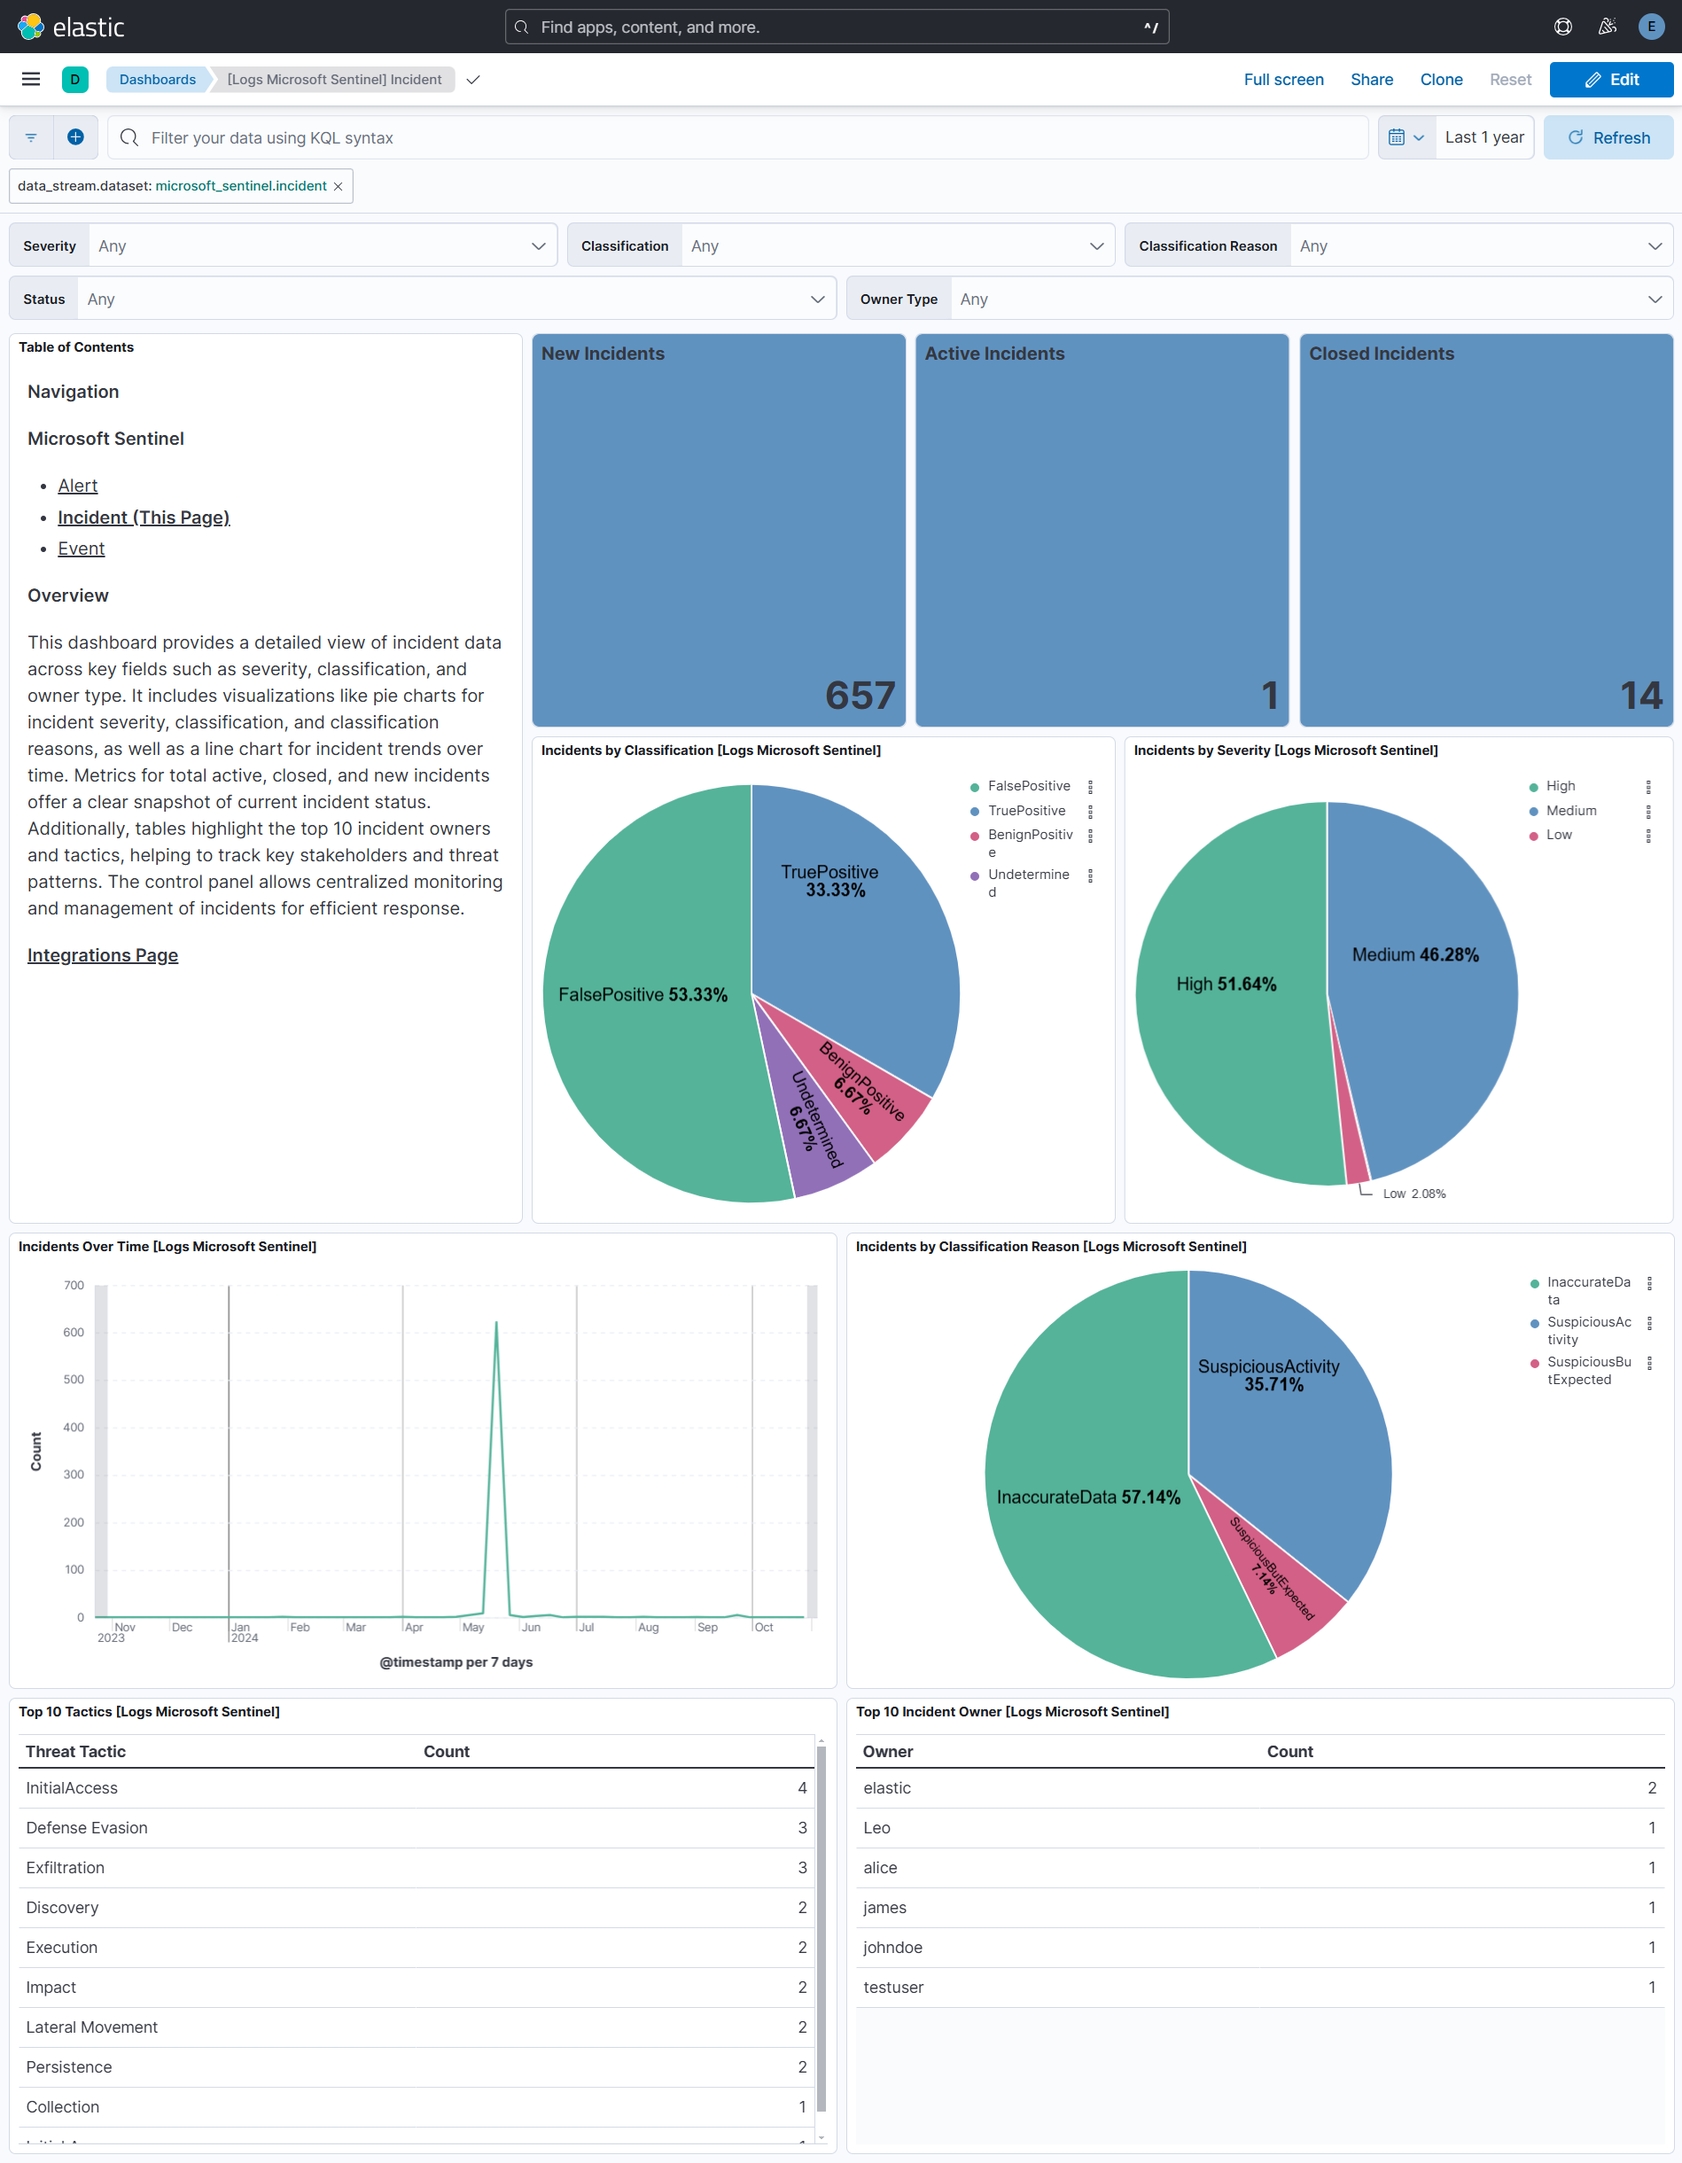
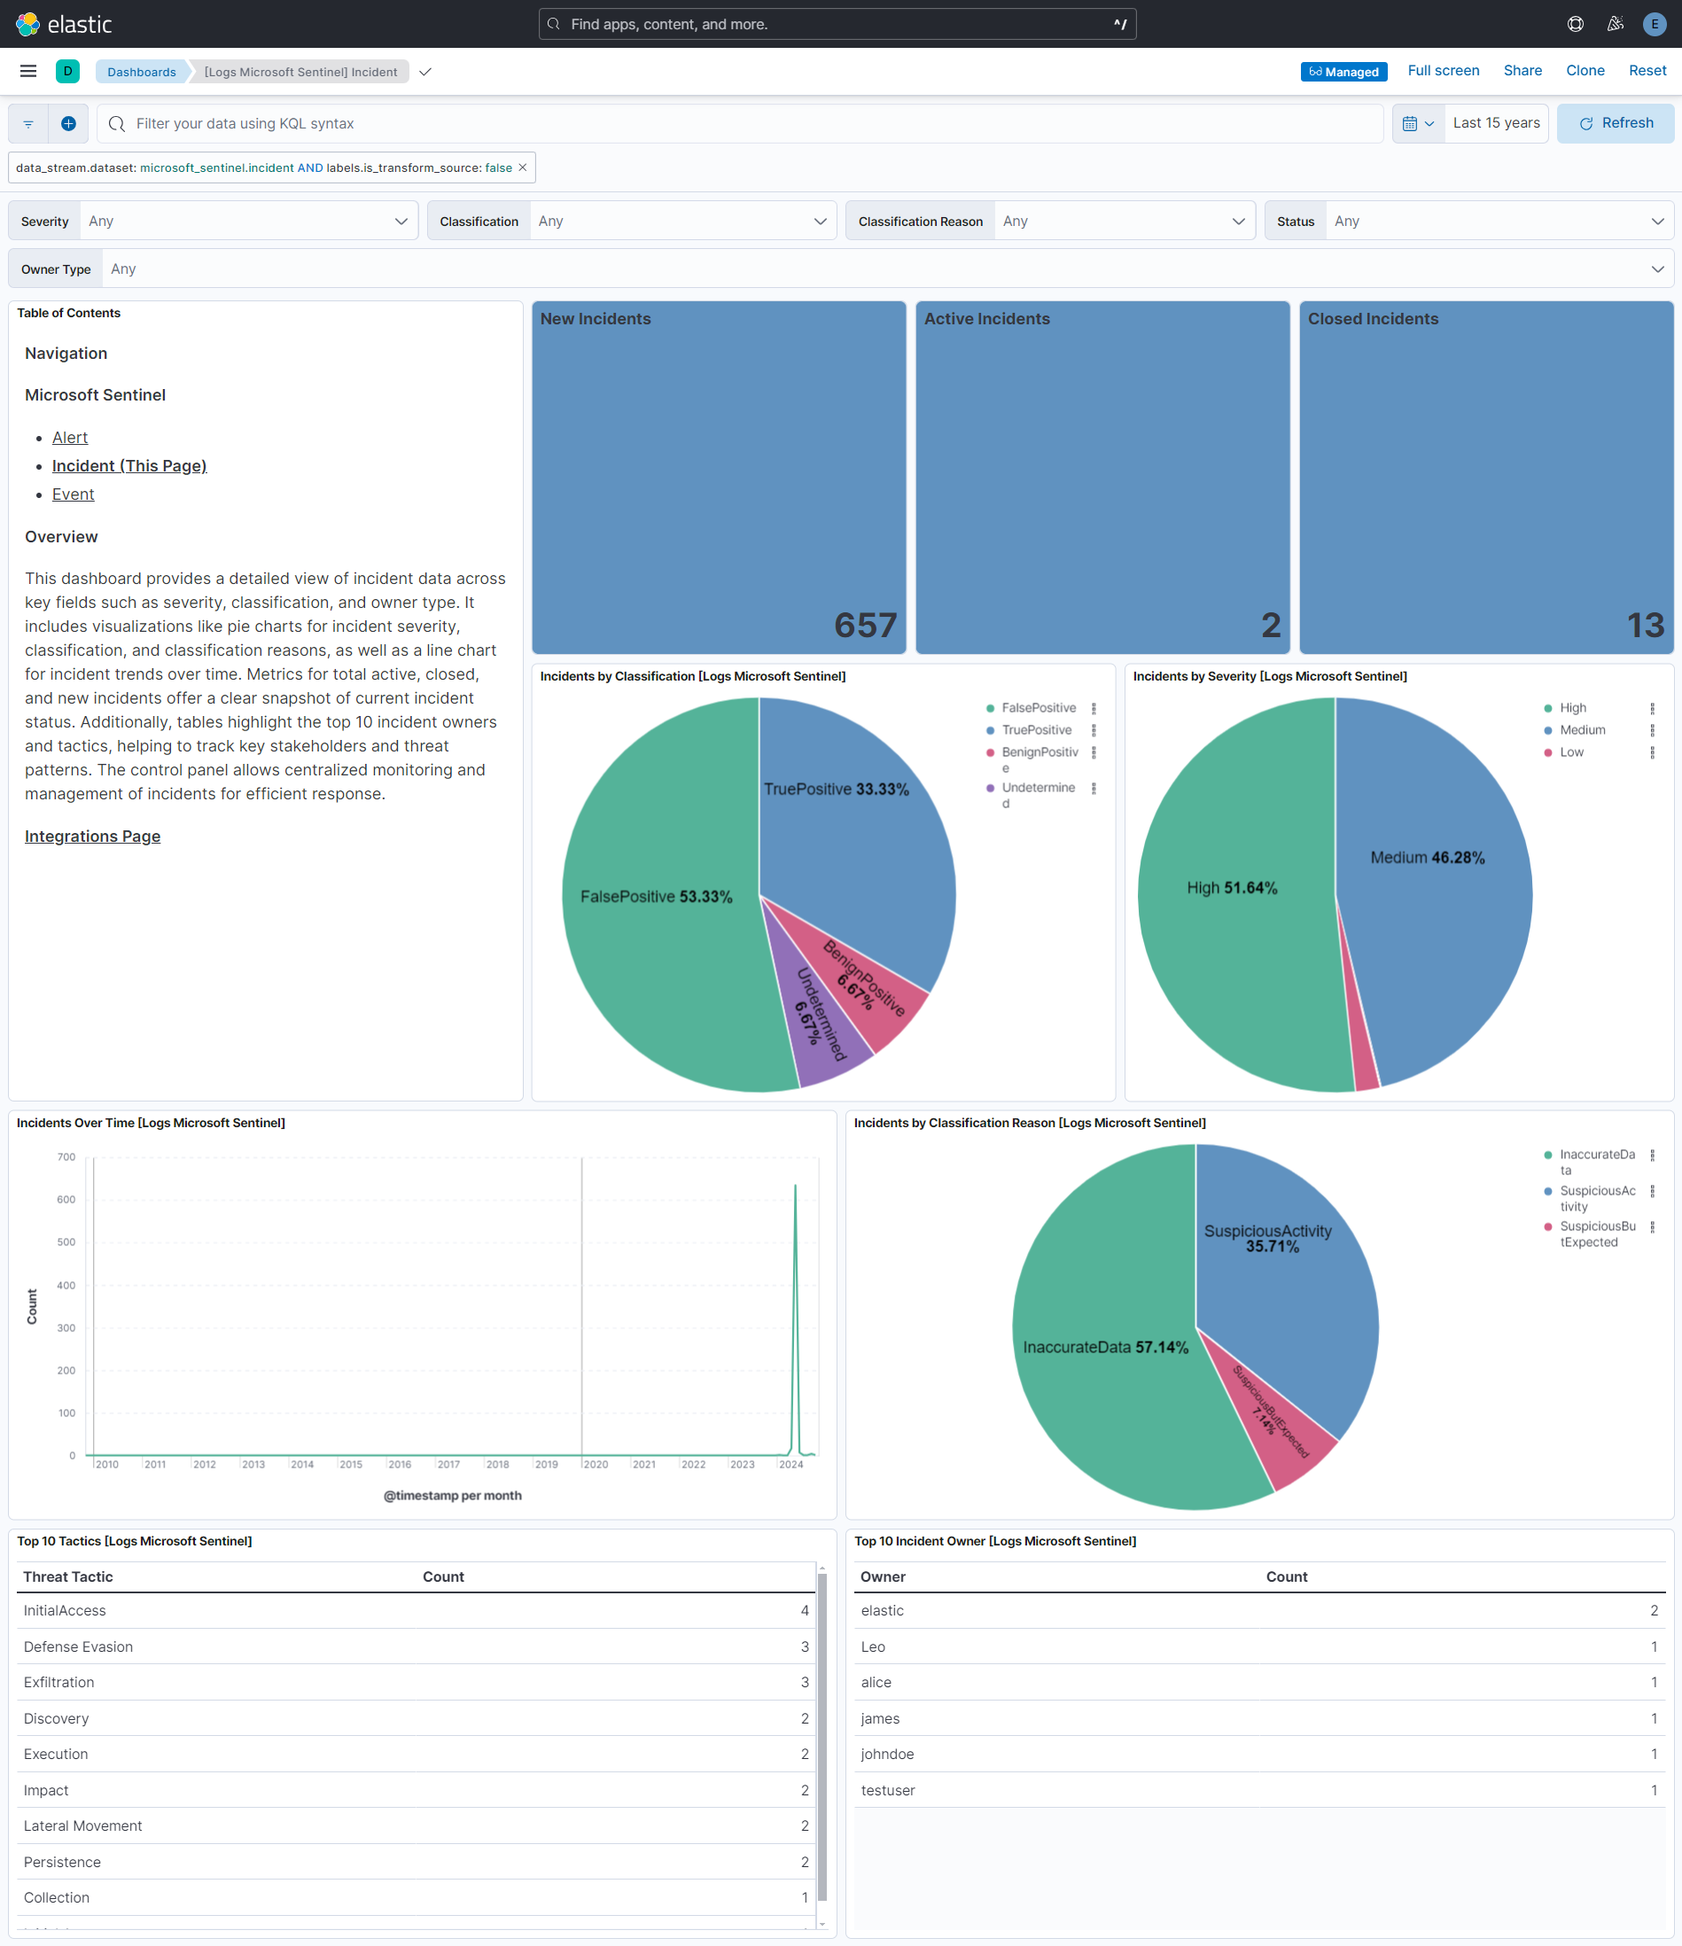
Resolved review comments and add transform to incident

diff --git a/packages/microsoft_sentinel/docs/README.md b/packages/microsoft_sentinel/docs/README.md
@@ -2,19 +2,19 @@
 
 ## Overview
 
-[Microsoft Sentinel](https://learn.microsoft.com/en-us/azure/sentinel/overview?tabs=azure-portal) is a scalable, cloud-native security information and event management (SIEM) that delivers an intelligent and comprehensive solution for SIEM and security orchestration, automation, and response (SOAR). Microsoft Sentinel provides cyberthreat detection, investigation, response, and proactive hunting, with a bird's-eye view across your enterprise.
+[Microsoft Sentinel](https://learn.microsoft.com/en-us/azure/sentinel/overview?tabs=azure-portal) is a scalable, cloud-native security information and event management (SIEM) system that delivers an intelligent and comprehensive solution for SIEM and security orchestration, automation, and response (SOAR). Microsoft Sentinel provides cyberthreat detection, investigation, response, and proactive hunting, with a bird's-eye view across your enterprise.
 
-Use the Microsoft Sentinel integration to collect and parse Alerts and Incidents from Microsoft Sentinel REST API and Events from the Microsoft Azure Event Hub, then visualise such data in Kibana.
+Use the Microsoft Sentinel integration to collect and parse Alerts and Incidents from Microsoft Sentinel REST API and Events from the Microsoft Azure Event Hub, then visualise the data in Kibana.
 
 ## Data streams
 
 The Microsoft Sentinel integration collects logs for three types of events: Alert, Event and Incident.
 
-**Alert:** [Alert](https://learn.microsoft.com/en-us/rest/api/securityinsights/incidents/list-alerts?view=rest-securityinsights-2024-03-01&tabs=HTTP) leverages to collect all alerts for an incident via API.
+**Alert:** [Alert](https://learn.microsoft.com/en-us/rest/api/securityinsights/incidents/list-alerts?view=rest-securityinsights-2024-03-01&tabs=HTTP) allows collecting all alerts for an incident via API.
 
-**Incident:** [Incident](https://learn.microsoft.com/en-us/rest/api/securityinsights/incidents/list?view=rest-securityinsights-2024-03-01&tabs=HTTP) leverages to collect all incidents via API.
+**Incident:** [Incident](https://learn.microsoft.com/en-us/rest/api/securityinsights/incidents/list?view=rest-securityinsights-2024-03-01&tabs=HTTP) allows collecting all incidents via API.
 
-**Event:** [Event](https://learn.microsoft.com/en-us/azure/sentinel/security-alert-schema) leverages to collect all alerts for an incident streamed to an Azure Event Hub.  
+**Event:** [Event](https://learn.microsoft.com/en-us/azure/sentinel/security-alert-schema) allows collecting all alerts for an incident streamed to an Azure Event Hub.  
 
 ## Requirements
 
@@ -84,22 +84,22 @@ An example event for `alert` looks as following:
 {
     "@timestamp": "2020-07-20T18:21:53.615Z",
     "agent": {
-        "ephemeral_id": "14216c6b-8b94-4ea9-8b4e-b81398b279c7",
-        "id": "191948cd-0501-4027-a905-ef118b6a7ad8",
-        "name": "elastic-agent-59529",
+        "ephemeral_id": "5d8e36a5-f551-4b9a-b54b-0c36d92d4a27",
+        "id": "c5507885-d48f-4dcb-91a9-73944f51118a",
+        "name": "elastic-agent-82640",
         "type": "filebeat",
         "version": "8.14.0"
     },
     "data_stream": {
         "dataset": "microsoft_sentinel.alert",
-        "namespace": "16128",
+        "namespace": "90867",
         "type": "logs"
     },
     "ecs": {
         "version": "8.11.0"
     },
     "elastic_agent": {
-        "id": "191948cd-0501-4027-a905-ef118b6a7ad8",
+        "id": "c5507885-d48f-4dcb-91a9-73944f51118a",
         "snapshot": false,
         "version": "8.14.0"
     },
@@ -109,7 +109,7 @@ An example event for `alert` looks as following:
         "duration": 86400000000000,
         "end": "2020-07-21T18:21:53.615Z",
         "id": "abcdef-6fde-4ab7-a093-d09f7b75c58c",
-        "ingested": "2024-10-29T09:10:28Z",
+        "ingested": "2024-11-05T06:04:45Z",
         "kind": "alert",
         "original": "{\"id\":\"/subscriptions/abcdef1-111111-4647-9105-6339bfdb4e6a/resourceGroups/myRG/providers/Microsoft.OperationalInsights/workspaces/myWorkspace/providers/Microsoft.SecurityInsights/Entities/1234567-890-890-a999999-d09f7b75c58c\",\"kind\":\"SecurityAlert\",\"name\":\"abcdef-6fde-4ab7-a093-d09f7b75c58c\",\"properties\":{\"additionalData\":{\"AlertMessageEnqueueTime\":\"2020-07-20T18:21:57.304Z\"},\"alertDisplayName\":\"myAlert\",\"alertType\":\"myAlert\",\"confidenceLevel\":\"Unknown\",\"endTimeUtc\":\"2020-07-21T18:21:53.6158361Z\",\"friendlyName\":\"myAlert\",\"processingEndTime\":\"2020-07-20T18:21:53.6158361Z\",\"productName\":\"AzureSecurityCenter\",\"resourceIdentifiers\":[{\"resourceGroup\":\"myRG\",\"subscriptionId\":\"a123456-4d29-4647-9105-6339bfdb4e6a\",\"type\":\"LogAnalytics\",\"workspaceId\":\"abcdefg-985d-4e4e-8e91-fb3466cd0e5b\"}],\"severity\":\"Low\",\"startTimeUtc\":\"2020-07-20T18:21:53.6158361Z\",\"status\":\"New\",\"systemAlertId\":\"abcdef-6fde-4ab7-a093-d09f7b75c58c\",\"tactics\":[\"abc\"],\"timeGenerated\":\"2020-07-20T18:21:53.6158361Z\",\"vendorName\":\"Microsoft\"},\"systemData\":{\"createdAt\":\"2020-07-20T18:21:57.304Z\",\"createdBy\":\"admin\",\"createdByType\":\"new\",\"lastModifiedAt\":\"2020-07-20T18:21:57.304Z\"},\"type\":\"Microsoft.SecurityInsights/Entities\"}",
         "severity": 1,
@@ -257,6 +257,8 @@ This is the `Event` dataset.
 | data_stream.type | Data stream type. | constant_keyword |
 | event.dataset | Event dataset. | constant_keyword |
 | event.module | Event module. | constant_keyword |
+| input.type | Type of filebeat input. | keyword |
+| log.offset | Log offset. | long |
 | microsoft_sentinel.event.alert.link | A link to the alert in the portal of the originating product. | keyword |
 | microsoft_sentinel.event.alert.name | The display name of the alert. | keyword |
 | microsoft_sentinel.event.alert.severity | The severity of the alert. | keyword |
@@ -293,6 +295,7 @@ This is the `Event` dataset.
 | microsoft_sentinel.event.vendor.original_id | Unique ID for the specific alert instance, set by the originating product. | keyword |
 | microsoft_sentinel.event.workspace.resource_group |  | keyword |
 | microsoft_sentinel.event.workspace.subscription_id |  | keyword |
+| tags | User defined tags. | keyword |
 
 
 ### Incident
@@ -307,22 +310,22 @@ An example event for `incident` looks as following:
 {
     "@timestamp": "2024-10-23T13:15:30.000Z",
     "agent": {
-        "ephemeral_id": "ec6325d7-208b-4e7f-93e3-edadbc77dd3c",
-        "id": "52342b04-a989-44a0-84ce-c27a18072fc9",
-        "name": "elastic-agent-47978",
+        "ephemeral_id": "bb54d388-612e-4628-a508-c3ee26212b2e",
+        "id": "ca782186-cfde-46eb-b413-d8a11bd533f9",
+        "name": "elastic-agent-22752",
         "type": "filebeat",
         "version": "8.14.0"
     },
     "data_stream": {
         "dataset": "microsoft_sentinel.incident",
-        "namespace": "83228",
+        "namespace": "44018",
         "type": "logs"
     },
     "ecs": {
         "version": "8.11.0"
     },
     "elastic_agent": {
-        "id": "52342b04-a989-44a0-84ce-c27a18072fc9",
+        "id": "ca782186-cfde-46eb-b413-d8a11bd533f9",
         "snapshot": false,
         "version": "8.14.0"
     },
@@ -331,7 +334,7 @@ An example event for `incident` looks as following:
         "created": "2019-01-01T13:15:30.000Z",
         "dataset": "microsoft_sentinel.incident",
         "id": "aaaaaaa-5cd7-4139-a149-9f2736ff2ab5",
-        "ingested": "2024-10-29T09:11:18Z",
+        "ingested": "2024-11-05T06:07:10Z",
         "kind": "alert",
         "original": "{\"etag\":\"\\\"bbbbbbbb-0000-0000-0000-5c37296e0000\\\"\",\"id\":\"/subscriptions/d0cfe6b2-9ac0-4464-9919-dccaee2e48c0/resourceGroups/myRg/providers/Microsoft.OperationalInsights/workspaces/myWorkspace/providers/Microsoft.SecurityInsights/incidents/aaaaaa-5cd7-4139-a149-9f2736ff2ab5\",\"name\":\"aaaaaaa-5cd7-4139-a149-9f2736ff2ab5\",\"properties\":{\"additionalData\":{\"alertProductNames\":[],\"alertsCount\":0,\"bookmarksCount\":0,\"commentsCount\":3,\"tactics\":[\"InitialAccess\",\"Persistence\"]},\"classification\":\"FalsePositive\",\"classificationComment\":\"Notamaliciousactivity\",\"classificationReason\":\"InaccurateData\",\"createdTimeUtc\":\"2019-01-01T13:15:30Z\",\"description\":\"Thisisademoincident\",\"firstActivityTimeUtc\":\"2019-01-01T13:00:30Z\",\"incidentNumber\":3177,\"incidentUrl\":\"https://portal.azure.com/#asset/Microsoft_Azure_Security_Insights/Incident/subscriptions/d0cfe6b2-9ac0-4464-9919-dccaee2e48c0/resourceGroups/myRg/providers/Microsoft.OperationalInsights/workspaces/myWorkspace/providers/Microsoft.SecurityInsights/incidents/73e01a99-5cd7-4139-a149-9f2736ff2ab5\",\"labels\":[],\"lastActivityTimeUtc\":\"2019-01-01T13:05:30Z\",\"lastModifiedTimeUtc\":\"2024-10-23T13:15:30Z\",\"owner\":{\"assignedTo\":\"johndoe\",\"email\":\"john.doe@example.com\",\"objectId\":\"abcdefghij-040d-4a46-9e2b-91c2941bfa70\",\"userPrincipalName\":\"john@example.com\"},\"providerIncidentId\":\"3177\",\"providerName\":\"AzureSentinel\",\"relatedAnalyticRuleIds\":[\"/subscriptions/abc12345678-9ac0-4464-9919-dccaee2e48c0/resourceGroups/myRg/providers/Microsoft.OperationalInsights/workspaces/myWorkspace/providers/Microsoft.SecurityInsights/alertRules/fab3d2d4-747f-46a7-8ef0-9c0be8112bf7\"],\"severity\":\"High\",\"status\":\"Closed\",\"title\":\"Myincident\"},\"type\":\"Microsoft.SecurityInsights/incidents\"}",
         "severity": 3,
@@ -439,6 +442,7 @@ An example event for `incident` looks as following:
 | event.dataset | Event dataset. | constant_keyword |
 | event.module | Event module. | constant_keyword |
 | input.type | Type of filebeat input. | keyword |
+| labels.is_transform_source | Distinguishes between documents that are a source for a transform and documents that are an output of a transform, to facilitate easier filtering. | constant_keyword |
 | log.offset | Log offset. | long |
 | microsoft_sentinel.incident.etag | Etag of the azure resource. | keyword |
 | microsoft_sentinel.incident.id | Fully qualified resource ID for the resource. | keyword |

diff --git a/packages/microsoft_sentinel/_dev/build/docs/README.md b/packages/microsoft_sentinel/_dev/build/docs/README.md
@@ -2,19 +2,19 @@
 
 ## Overview
 
-[Microsoft Sentinel](https://learn.microsoft.com/en-us/azure/sentinel/overview?tabs=azure-portal) is a scalable, cloud-native security information and event management (SIEM) that delivers an intelligent and comprehensive solution for SIEM and security orchestration, automation, and response (SOAR). Microsoft Sentinel provides cyberthreat detection, investigation, response, and proactive hunting, with a bird's-eye view across your enterprise.
+[Microsoft Sentinel](https://learn.microsoft.com/en-us/azure/sentinel/overview?tabs=azure-portal) is a scalable, cloud-native security information and event management (SIEM) system that delivers an intelligent and comprehensive solution for SIEM and security orchestration, automation, and response (SOAR). Microsoft Sentinel provides cyberthreat detection, investigation, response, and proactive hunting, with a bird's-eye view across your enterprise.
 
-Use the Microsoft Sentinel integration to collect and parse Alerts and Incidents from Microsoft Sentinel REST API and Events from the Microsoft Azure Event Hub, then visualise such data in Kibana.
+Use the Microsoft Sentinel integration to collect and parse Alerts and Incidents from Microsoft Sentinel REST API and Events from the Microsoft Azure Event Hub, then visualise the data in Kibana.
 
 ## Data streams
 
 The Microsoft Sentinel integration collects logs for three types of events: Alert, Event and Incident.
 
-**Alert:** [Alert](https://learn.microsoft.com/en-us/rest/api/securityinsights/incidents/list-alerts?view=rest-securityinsights-2024-03-01&tabs=HTTP) leverages to collect all alerts for an incident via API.
+**Alert:** [Alert](https://learn.microsoft.com/en-us/rest/api/securityinsights/incidents/list-alerts?view=rest-securityinsights-2024-03-01&tabs=HTTP) allows collecting all alerts for an incident via API.
 
-**Incident:** [Incident](https://learn.microsoft.com/en-us/rest/api/securityinsights/incidents/list?view=rest-securityinsights-2024-03-01&tabs=HTTP) leverages to collect all incidents via API.
+**Incident:** [Incident](https://learn.microsoft.com/en-us/rest/api/securityinsights/incidents/list?view=rest-securityinsights-2024-03-01&tabs=HTTP) allows collecting all incidents via API.
 
-**Event:** [Event](https://learn.microsoft.com/en-us/azure/sentinel/security-alert-schema) leverages to collect all alerts for an incident streamed to an Azure Event Hub.  
+**Event:** [Event](https://learn.microsoft.com/en-us/azure/sentinel/security-alert-schema) allows collecting all alerts for an incident streamed to an Azure Event Hub.  
 
 ## Requirements
 
